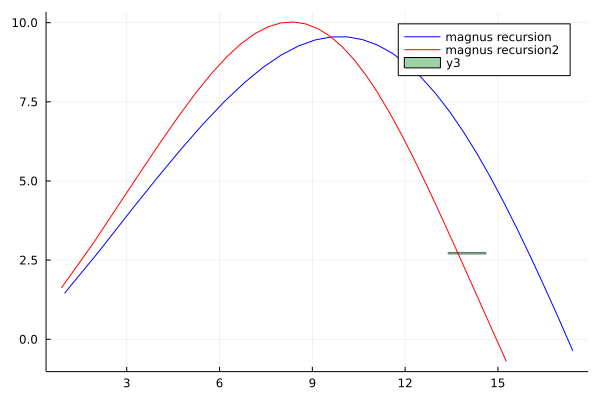
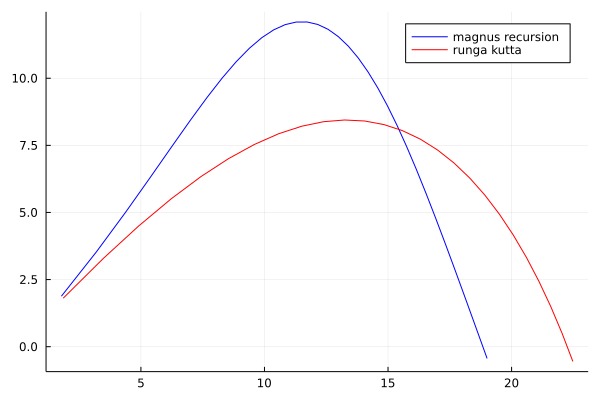
go debug tomer

diff --git a/skynet-robot-libary/src/main/java/frc/robot/lib/Physics/lib/Ball.java b/skynet-robot-libary/src/main/java/frc/robot/lib/Physics/lib/Ball.java
@@ -221,10 +221,10 @@ public class Ball extends PhysicalObjectBase {
             states_array.add(new State(ball.state));
             i++;
         }
-        // System.out.print("\n\n\nx_array = ");
-        // System.out.print(Arrays.deepToString(pos_array.get(0).toArray()));
-        // System.out.print("\n\n\ny_array = ");
-        // System.out.println(Arrays.deepToString(pos_array.get(1).toArray()));
+        System.out.print("\n\n\nx_array = ");
+        System.out.print(Arrays.deepToString(pos_array.get(0).toArray()));
+        System.out.print("\n\n\ny_array = ");
+        System.out.println(Arrays.deepToString(pos_array.get(1).toArray()));
 
     }
 
@@ -253,10 +253,10 @@ public class Ball extends PhysicalObjectBase {
             pos_array.get(1).add(ball.state.position.getComponent(1));
             i++;
         }
-        // System.out.print("\n\n\nx_array_drag_recursion = ");
-        // System.out.print(Arrays.deepToString(pos_array.get(0).toArray()));
-        // System.out.print("\n\n\ny_array_drag_recursion = ");
-        // System.out.print(Arrays.deepToString(pos_array.get(1).toArray()));
+        System.out.print("\n\n\nx_array_drag_recursion = ");
+        System.out.print(Arrays.deepToString(pos_array.get(0).toArray()));
+        System.out.print("\n\n\ny_array_drag_recursion = ");
+        System.out.print(Arrays.deepToString(pos_array.get(1).toArray()));
     }
 
     public static void test_drag_no_recursion() {
@@ -524,14 +524,41 @@ public class Ball extends PhysicalObjectBase {
     public static void main(String[] args) {
         Ball ball = new Ball(0.26932047, 0.12065, 0.47, 0.1);
         ball.state.kinematics_varuibales.add(new Vector(0.0, 0.0, 0.0));
+        
 
-        Target hub = new Target(new Vector(4.0, 2.7178, 0.0), new Vector(1.22 - ball.get_target_threshold(), 0.05,
-                1.0), 90, 45, 999, -999);
+        // Target hub = new Target(new Vector(4.0, 2.7178, 0.0), new Vector(1.22 - ball.get_target_threshold(), 0.05,
+        //         1.0), 90, 45, 999, -999);
 
-        // // ANGLE FROM Y AXIS ^
+        // // // ANGLE FROM Y AXIS ^
 
-        Vector results = shooter_optimiztion.binary_smart_optimize(ball, hub, 45.0, 0.0, 5000.0, 1500.0, 12.0);
+        // Vector results = shooter_optimiztion.binary_smart_optimize(ball, hub, 45.0, 0.0, 5000.0, 1500.0, 12.0);
 
-        simulte_from_rpm_and_angle(ball, results.getComponent(0), results.getComponent(1), results.getComponent(2));
+        // simulte_from_rpm_and_angle(ball, results.getComponent(0), results.getComponent(1), results.getComponent(2));
+        test_drag_recursion();
+        ball.set_started_velocity(new Vector(19.9366967045, 19.9366967045, 0.0));
+        ball.before_before_state = new State();
+        ball.set_rotational_velocity(new Vector(0.0, 0.0, -58.422600157894736842105263157895));
+        ball.lift_coeficent = ball.radius.multiply(ball.state.rotational_velocity.getMagnitude())
+                .divide(ball.state.velocity.getMagnitude()); // if cd is close to 0.5 then cl = R*rotational_velocity/v
+                                                             // which/ is S
+        ball.set_position(new Vector(0.0, 0.0000001, 0.0));
+        ball.state.save_to_list();
+        ArrayList<ArrayList<Double>> pos_array = new ArrayList<ArrayList<Double>>();
+        pos_array.add(0, new ArrayList<Double>());
+        pos_array.add(1, new ArrayList<Double>());
+        while(ball.state.position.getComponent(1)>0)
+        {
+            State before_state = new State(ball.state);
+            ball.calc_magnus_forces();
+            ball.calc();
+            ball.runge_kutta_aproxemation(before_state);
+            pos_array.get(0).add(ball.state.position.getComponent(0));
+            pos_array.get(1).add(ball.state.position.getComponent(1));
+            ball.before_before_state = new State(before_state);
+        }
+        System.out.print("\n\n\nx_array_runga_kutta = ");
+        System.out.print(Arrays.deepToString(pos_array.get(0).toArray()));
+        System.out.print("\n\n\ny_array_runga_kutta  = ");
+        System.out.println(Arrays.deepToString(pos_array.get(1).toArray()));
     }
 }

diff --git a/skynet-robot-libary/src/main/java/frc/robot/lib/Physics/lib/base/PhysicalObjectBase.java b/skynet-robot-libary/src/main/java/frc/robot/lib/Physics/lib/base/PhysicalObjectBase.java
@@ -1,5 +1,9 @@
 package frc.robot.lib.Physics.lib.base;
 
+import java.util.ArrayList;
+import java.util.Arrays;
+import java.util.List;
+
 import com.github.iprodigy.physics.util.abstraction.Scalar;
 import com.github.iprodigy.physics.util.vector.Vector;
 
@@ -47,7 +51,50 @@ public abstract class PhysicalObjectBase {
                         state.rotational_velocity.getMagnitude() * state.rotational_velocity.getMagnitude() * 0.5));
         state.angular_momentum = state.rotational_velocity.multiply(moment_of_inertia);
     }
-
+    protected List<Vector> deferantial_equation(Scalar time, State before_state)
+    {
+        // return state.velocity.add(state.acceleration.multiply(time));
+        List<Vector> output =  new ArrayList<Vector>();
+        output.add(before_state.velocity);
+        output.add(before_state.acceleration);
+        output.add(before_state.acceleration.subtract(before_before_state.acceleration).divide(time));
+        return output;
+    }
+    private List<Vector> multiplie_list(List<Vector> vector_list, double number)
+    {
+        List<Vector> return_list = new ArrayList<>(vector_list);
+        for (int i =0; i< vector_list.size();i++)
+        {
+            return_list.set(i,vector_list.get(i).multiply(number));
+        }
+        return return_list;
+    }
+    private List<Vector> add_list(List<Vector> v1, List<Vector> v2)
+    {
+        List<Vector> return_list = new ArrayList<>(v1);
+        for (int i =0; i< v1.size();i++)
+        {
+            return_list.set(i,v1.get(i).add(v2.get(i)));
+        }
+        return return_list;
+    }
+    protected void runge_kutta_aproxemation(State before_state)
+    {
+        List<Vector> state =  new ArrayList<Vector>();
+        state.add(before_state.position);
+        state.add(before_state.velocity);
+        state.add(before_state.acceleration);
+        List<Vector> a = deferantial_equation(()->0.0,before_state);
+        List<Vector> b = deferantial_equation(estemation_resulotion.multiply(0.5), before_state.add_vector(multiplie_list(a,estemation_resulotion.multiply(0.5).getMagnitude())));
+        List<Vector> c = deferantial_equation(estemation_resulotion.multiply(0.5), before_state.add_vector(multiplie_list(b,estemation_resulotion.multiply(0.5).getMagnitude())));
+        List<Vector> d = deferantial_equation(estemation_resulotion, before_state.add_vector(multiplie_list(c,estemation_resulotion.getMagnitude())));
+        // Vector position = before_state.position.add(a.add(b.multiply(2)).add(c.multiply(2)).add(d).multiply(estemation_resulotion.multiply((double)1/6)));
+        List<Vector> sum = multiplie_list(add_list(a, add_list(b, add_list(b, add_list(c, add_list(c, d))))), estemation_resulotion.multiply((double)1/6).getMagnitude());
+        System.out.println(Arrays.deepToString(sum.toArray()));
+        this.state.position = sum.get(0);
+        this.state.velocity = sum.get(1);
+        this.state.acceleration = sum.get(2);
+    }
     protected void recursive_update(State before_state, int turn, int iteration) {
         // System.out.println("Turn: " + turn);
         if (turn > state.kinematics_varuibales.size()) {
@@ -86,7 +133,7 @@ public abstract class PhysicalObjectBase {
         }
         recursive_update(before_state, turn + 1, iteration);
     }
-
+// ded
     protected void recursive_update1(State before_state, int turn, int iteration) {
         System.out.println("Turn: " + turn);
         if (turn > state.kinematics_varuibales.size()) {

diff --git a/skynet-robot-libary/src/main/java/frc/robot/lib/Physics/lib/base/State.java b/skynet-robot-libary/src/main/java/frc/robot/lib/Physics/lib/base/State.java
@@ -98,6 +98,14 @@ public class State {
         this.kinematics_varuibales = new ArrayList<>(state.kinematics_varuibales);
 
     }
+    public State add_vector(List<Vector> vector)
+    {
+        State return_state = new State(this);
+        return_state.position.add(vector.get(0));
+        return_state.velocity.add(vector.get(1));
+        return_state.acceleration.add(vector.get(2));
+        return return_state;
+    }   
 
     @Override
     public String toString() {
